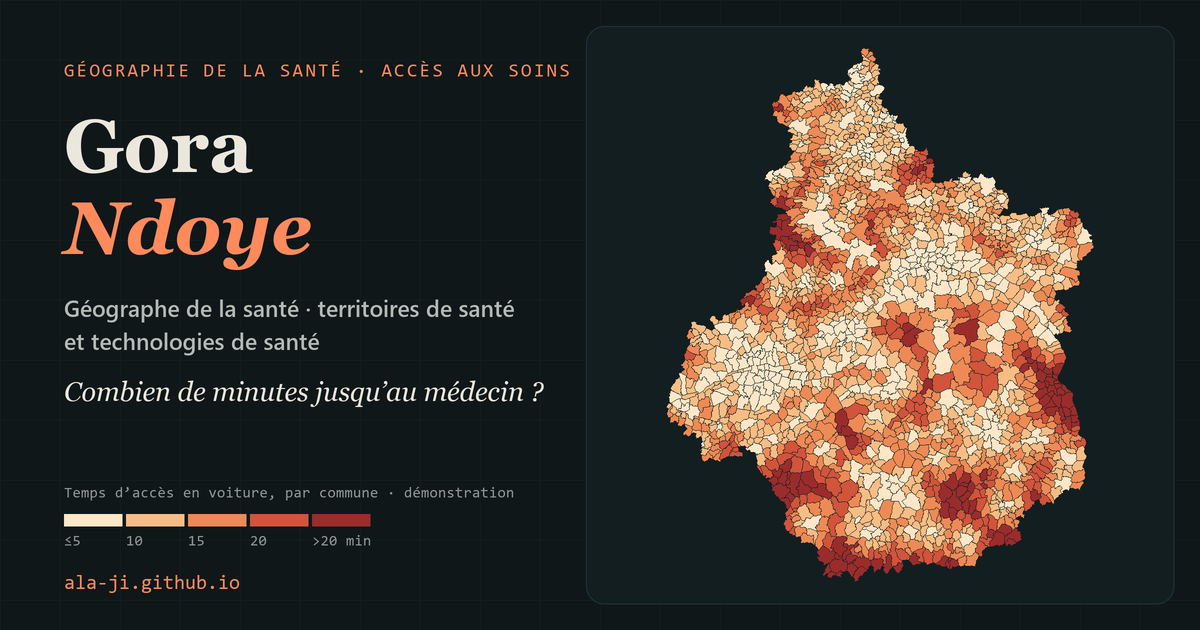
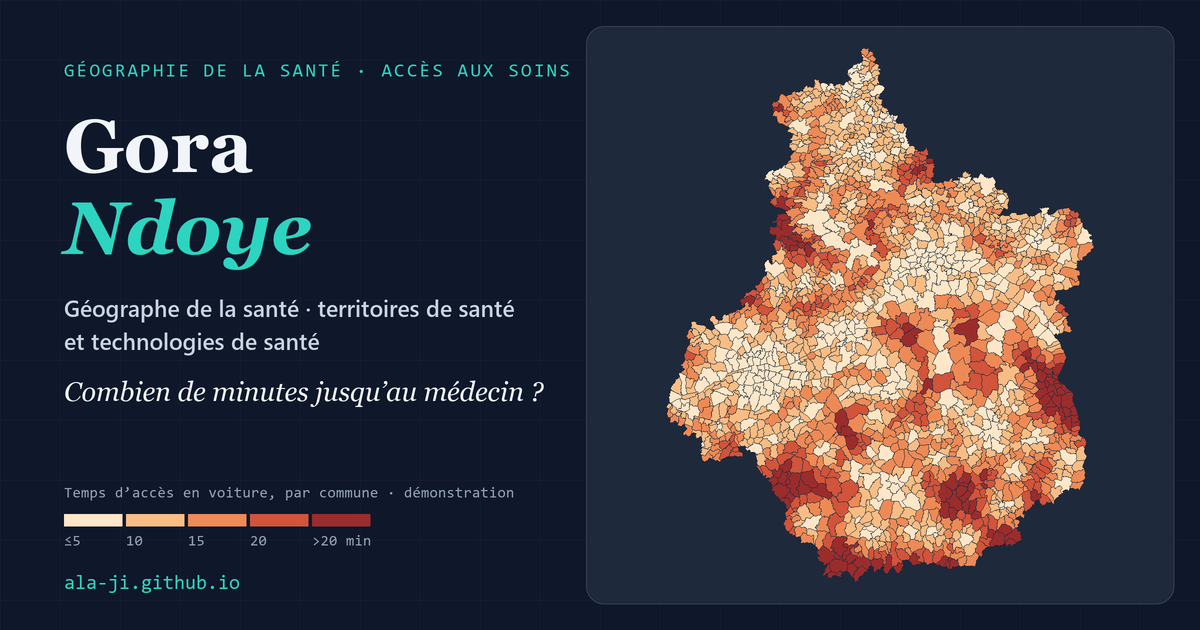
Nouvelle palette : ardoise et teal en clair, bleu nuit et menthe en sombre
- Clair : fond #f8fafc, cartes blanches cernées de #e2e8f0, texte #1e293b,
  titres #0f172a. Sombre : fond #0f172a, cartes #1e293b cernées de #334155,
  texte #f1f5f9.
- Accent teal #0d9488 (menthe #2dd4bf en sombre) pour les boutons, les
  liens, les étiquettes et les chiffres clés ; liens, étiquettes et fonds de
  bouton en #0f766e sur fond clair pour tenir un contraste de 4,5:1.
- Sélection, curseur, barres de défilement et contours de focus aux couleurs
  de la palette ; visionneuse, favicon, couleur de navigateur et aperçu
  LinkedIn mis à jour. Échelle de la carte des temps inchangée.

diff --git a/css/style.css b/css/style.css
@@ -1,8 +1,10 @@
 /* ==========================================================================
    Portfolio · feuille de style
-   Direction : l'atlas et le carnet de terrain. Papier crème, encre bleu-noir,
-   un seul accent (le crayon rouge du cartographe), réservé à l'action
-   principale, à la carte et au chiffre qui compte.
+   Direction : clair, lisible et professionnel. Fond ardoise très pâle, cartes
+   blanches cernées d'un filet, texte ardoise ; en sombre, bleu nuit façon
+   tableau de bord. Un accent teal (menthe en sombre) pour les boutons, les
+   liens, les étiquettes et les chiffres qui comptent. En clair, le texte et
+   les fonds de bouton prennent le teal foncé (#0f766e) pour tenir 4,5:1.
 
    1. Jetons (couleurs, typographie, espacements) · thèmes clair et sombre
    2. Base
@@ -21,28 +23,32 @@
 /* 1. Jetons ---------------------------------------------------------------- */
 :root {
   color-scheme: light;
-  --bg: #f6f3ec;
-  --bg-alt: #efe9df;
-  --surface: #fffdf8;
-  --ink: #1b2a2f;
-  --ink-soft: #46565b;
-  --ink-faint: #5f6d6d;
-  --line: rgba(27, 42, 47, 0.09);
-  --line-strong: rgba(27, 42, 47, 0.16);
-  --accent: #b5401f;
-  --accent-hover: #963217;
-  --on-accent: #fffaf5;
+  --bg: #f8fafc;
+  --bg-alt: #f1f5f9;
+  --surface: #ffffff;
+  --ink: #1e293b;
+  --ink-strong: #0f172a;
+  --ink-soft: #475569;
+  --ink-faint: #5b6b80;
+  --line: #e2e8f0;
+  --line-strong: #cbd5e1;
+  --accent: #0d9488;
+  --accent-strong: #0f766e;
+  --accent-hover: #115e59;
+  --accent-soft: #f0fdfa;
+  --accent-line: rgba(13, 148, 136, 0.28);
+  --on-accent: #ffffff;
   --positive: #2f7d4f;
-  --shadow: 0 1px 2px rgba(0, 0, 0, 0.05), 0 8px 24px rgba(0, 0, 0, 0.06);
-  --header-bg: rgba(246, 243, 236, 0.86);
-  --veil-rgb: 246, 243, 236;
+  --shadow: 0 1px 2px rgba(15, 23, 42, 0.05), 0 8px 24px rgba(15, 23, 42, 0.06);
+  --header-bg: rgba(248, 250, 252, 0.86);
+  --veil-rgb: 248, 250, 252;
   --map-stroke: rgba(255, 255, 255, 0.8);
-  --map-null: #b4b8b0;
-  --contact-bg: #1b2a2f;
-  --contact-ink: #f6f3ec;
-  --contact-muted: rgba(246, 243, 236, 0.72);
-  --contact-line: rgba(246, 243, 236, 0.14);
-  --contact-line-strong: rgba(246, 243, 236, 0.28);
+  --map-null: #a8b3c2;
+  --contact-bg: #0f172a;
+  --contact-ink: #f1f5f9;
+  --contact-muted: rgba(241, 245, 249, 0.72);
+  --contact-line: rgba(241, 245, 249, 0.14);
+  --contact-line-strong: rgba(241, 245, 249, 0.28);
 
   --font-display: "Fraunces", Georgia, "Times New Roman", serif;
   --font-body: "Inter", system-ui, -apple-system, "Segoe UI", Roboto, sans-serif;
@@ -57,55 +63,64 @@
 
 :root[data-theme="dark"] {
   color-scheme: dark;
-  --bg: #0f1719;
-  --bg-alt: #162124;
-  --surface: #182428;
-  --ink: #ece7dc;
-  --ink-soft: #b4bbb6;
-  --ink-faint: #8d9894;
-  --line: rgba(236, 231, 220, 0.08);
-  --line-strong: rgba(236, 231, 220, 0.16);
-  --accent: #ff8a5c;
-  --accent-hover: #ffa47f;
-  --on-accent: #1d0f0a;
+  --bg: #0f172a;
+  --bg-alt: #131d33;
+  --surface: #1e293b;
+  --ink: #f1f5f9;
+  --ink-strong: #f8fafc;
+  --ink-soft: #cbd5e1;
+  --ink-faint: #94a3b8;
+  --line: #334155;
+  --line-strong: #475569;
+  --accent: #2dd4bf;
+  --accent-strong: #2dd4bf;
+  --accent-hover: #5eead4;
+  --accent-soft: rgba(45, 212, 191, 0.12);
+  --accent-line: rgba(45, 212, 191, 0.32);
+  --on-accent: #0f172a;
   --positive: #4cc38a;
   --shadow: 0 1px 2px rgba(0, 0, 0, 0.3), 0 8px 24px rgba(0, 0, 0, 0.35);
-  --header-bg: rgba(15, 23, 25, 0.86);
-  --veil-rgb: 15, 23, 25;
-  --map-stroke: rgba(15, 23, 25, 0.6);
-  --map-null: #3e484a;
-  --contact-bg: #1a272b;
-  --contact-ink: #ece7dc;
-  --contact-muted: #b4bbb6;
-  --contact-line: rgba(236, 231, 220, 0.12);
-  --contact-line-strong: rgba(236, 231, 220, 0.24);
+  --header-bg: rgba(15, 23, 42, 0.86);
+  --veil-rgb: 15, 23, 42;
+  --map-stroke: rgba(15, 23, 42, 0.6);
+  --map-null: #475569;
+  --contact-bg: #1e293b;
+  --contact-ink: #f1f5f9;
+  --contact-muted: #cbd5e1;
+  --contact-line: rgba(241, 245, 249, 0.12);
+  --contact-line-strong: rgba(241, 245, 249, 0.24);
 }
 
 /* Sans JavaScript : on suit le réglage du système */
 @media (prefers-color-scheme: dark) {
   :root:not([data-theme]) {
     color-scheme: dark;
-    --bg: #0f1719;
-    --bg-alt: #162124;
-    --surface: #182428;
-    --ink: #ece7dc;
-    --ink-soft: #b4bbb6;
-    --ink-faint: #8d9894;
-    --line: rgba(236, 231, 220, 0.08);
-    --line-strong: rgba(236, 231, 220, 0.16);
-    --accent: #ff8a5c;
-    --accent-hover: #ffa47f;
-    --on-accent: #1d0f0a;
+    --bg: #0f172a;
+    --bg-alt: #131d33;
+    --surface: #1e293b;
+    --ink: #f1f5f9;
+    --ink-strong: #f8fafc;
+    --ink-soft: #cbd5e1;
+    --ink-faint: #94a3b8;
+    --line: #334155;
+    --line-strong: #475569;
+    --accent: #2dd4bf;
+    --accent-strong: #2dd4bf;
+    --accent-hover: #5eead4;
+    --accent-soft: rgba(45, 212, 191, 0.12);
+    --accent-line: rgba(45, 212, 191, 0.32);
+    --on-accent: #0f172a;
     --positive: #4cc38a;
-    --header-bg: rgba(15, 23, 25, 0.86);
-    --veil-rgb: 15, 23, 25;
-    --map-stroke: rgba(15, 23, 25, 0.6);
-    --map-null: #3e484a;
-    --contact-bg: #1a272b;
-    --contact-ink: #ece7dc;
-    --contact-muted: #b4bbb6;
-    --contact-line: rgba(236, 231, 220, 0.12);
-    --contact-line-strong: rgba(236, 231, 220, 0.24);
+    --shadow: 0 1px 2px rgba(0, 0, 0, 0.3), 0 8px 24px rgba(0, 0, 0, 0.35);
+    --header-bg: rgba(15, 23, 42, 0.86);
+    --veil-rgb: 15, 23, 42;
+    --map-stroke: rgba(15, 23, 42, 0.6);
+    --map-null: #475569;
+    --contact-bg: #1e293b;
+    --contact-ink: #f1f5f9;
+    --contact-muted: #cbd5e1;
+    --contact-line: rgba(241, 245, 249, 0.12);
+    --contact-line-strong: rgba(241, 245, 249, 0.24);
   }
 }
 
@@ -136,12 +151,15 @@ body:has(dialog[open]) { overflow: hidden; }
 img, svg, canvas { display: block; max-width: 100%; }
 img { height: auto; }
 a { color: inherit; text-decoration-thickness: 1px; text-underline-offset: 3px; }
-h1, h2, h3, h4 { margin: 0; color: var(--ink); font-weight: 500; }
+main p a:not([class]) { color: var(--accent-strong); text-decoration-color: var(--accent-line); }
+main p a:not([class]):hover { color: var(--accent-hover); text-decoration-color: currentColor; }
+h1, h2, h3, h4 { margin: 0; color: var(--ink-strong); font-weight: 500; }
 p { margin: 0 0 16px; }
 ul, ol { margin: 0; padding: 0; }
 button, input { font: inherit; color: inherit; }
 strong { font-weight: 600; }
-::selection { background: var(--accent); color: var(--on-accent); }
+::selection { background: var(--accent-strong); color: var(--on-accent); }
+:root { accent-color: var(--accent-strong); caret-color: var(--accent-strong); scrollbar-color: var(--line-strong) var(--bg); }
 :focus-visible { outline: 2px solid var(--accent); outline-offset: 2px; border-radius: 4px; }
 
 .visually-hidden {
@@ -206,7 +224,7 @@ strong { font-weight: 600; }
 }
 .btn:active { transform: scale(0.98); }
 .btn .icon { width: 16px; height: 16px; }
-.btn-primary { background: var(--accent); color: var(--on-accent); }
+.btn-primary { background: var(--accent-strong); color: var(--on-accent); }
 .btn-primary:hover { background: var(--accent-hover); }
 .btn-ghost { border-color: var(--line-strong); background: var(--surface); color: var(--ink); }
 .btn-ghost:hover { background: var(--bg-alt); }
@@ -254,9 +272,10 @@ a.is-missing:hover { background: var(--surface); }
 .chips { list-style: none; display: flex; flex-wrap: wrap; gap: 8px; }
 .chips li {
   padding: 4px 8px;
-  border: 1px solid var(--line-strong);
+  border: 1px solid var(--accent-line);
   border-radius: var(--radius-tag);
-  color: var(--ink-soft);
+  background: var(--accent-soft);
+  color: var(--accent-strong);
   font-size: 0.8125rem;
   line-height: 1.4;
 }
@@ -265,9 +284,10 @@ a.is-missing:hover { background: var(--surface); }
 .tag {
   display: inline-block;
   padding: 2px 8px;
-  border: 1px solid var(--line-strong);
+  border: 1px solid var(--accent-line);
   border-radius: var(--radius-tag);
-  color: var(--ink-soft);
+  background: var(--accent-soft);
+  color: var(--accent-strong);
   font-size: 0.75rem;
   line-height: 1.6;
 }
@@ -745,7 +765,8 @@ a.is-missing:hover { background: var(--surface); }
 .cert-list { list-style: none; display: grid; gap: 12px; }
 .cert-list li { display: grid; grid-template-columns: 48px minmax(0, 1fr); gap: 12px; align-items: baseline; color: var(--ink-soft); font-size: 0.9375rem; }
 .cert-list .tl-date { margin: 0; }
-.cert-link { display: inline-flex; align-items: center; gap: 4px; margin-left: 4px; color: var(--ink); font-size: 0.8125rem; white-space: nowrap; }
+.cert-link { display: inline-flex; align-items: center; gap: 4px; margin-left: 4px; color: var(--accent-strong); font-size: 0.8125rem; white-space: nowrap; }
+.cert-link:hover { color: var(--accent-hover); }
 .cert-link .icon { width: 14px; height: 14px; }
 
 /* Galerie : la carte reste entière, la légende est sous l'image */
@@ -802,7 +823,7 @@ a.is-missing:hover { background: var(--surface); }
   transition: background-color 0.15s var(--ease), color 0.15s var(--ease), border-color 0.15s var(--ease);
 }
 .filter-btn:hover { color: var(--ink); background: var(--surface); }
-.filter-btn[aria-pressed="true"] { border-color: var(--ink); background: var(--ink); color: var(--bg); }
+.filter-btn[aria-pressed="true"] { border-color: var(--accent-strong); background: var(--accent-strong); color: var(--on-accent); }
 .docs-grid { list-style: none; display: grid; grid-template-columns: repeat(auto-fill, minmax(300px, 1fr)); gap: 16px; }
 .doc-card {
   display: flex;
@@ -898,11 +919,11 @@ a.is-missing:hover { background: var(--surface); }
   margin: 0;
   padding: 0;
   border: 0;
-  background: rgba(8, 12, 13, 0.95);
-  color: #f2efe8;
+  background: rgba(2, 6, 23, 0.95);
+  color: #f1f5f9;
 }
 .lightbox[open] { display: grid; grid-template-columns: auto minmax(0, 1fr) auto; align-items: center; }
-.lightbox::backdrop { background: rgba(8, 12, 13, 0.6); }
+.lightbox::backdrop { background: rgba(2, 6, 23, 0.6); }
 .lb-figure {
   display: flex;
   flex-direction: column;
@@ -919,23 +940,23 @@ a.is-missing:hover { background: var(--surface); }
   border-radius: var(--radius-control);
   background: #fff;
 }
-.lb-figure figcaption { max-width: 880px; color: rgba(242, 239, 232, 0.82); font-size: 0.9375rem; text-align: center; }
-.lb-count { display: block; margin-bottom: 4px; color: rgba(242, 239, 232, 0.56); font-size: 0.8125rem; font-variant-numeric: tabular-nums; }
+.lb-figure figcaption { max-width: 880px; color: rgba(241, 245, 249, 0.82); font-size: 0.9375rem; text-align: center; }
+.lb-count { display: block; margin-bottom: 4px; color: rgba(241, 245, 249, 0.56); font-size: 0.8125rem; font-variant-numeric: tabular-nums; }
 .lb-btn {
   display: grid;
   place-items: center;
   width: 44px; height: 44px;
   margin: 0 12px;
   padding: 0;
-  border: 1px solid rgba(242, 239, 232, 0.24);
+  border: 1px solid rgba(241, 245, 249, 0.24);
   border-radius: 10px;
-  background: rgba(242, 239, 232, 0.06);
+  background: rgba(241, 245, 249, 0.06);
   color: inherit;
   cursor: pointer;
   transition: background-color 0.15s var(--ease);
 }
-.lb-btn:hover { background: rgba(242, 239, 232, 0.14); }
-.lb-btn:focus-visible { outline-color: #f2efe8; }
+.lb-btn:hover { background: rgba(241, 245, 249, 0.14); }
+.lb-btn:focus-visible { outline-color: #f1f5f9; }
 .lb-close { position: absolute; top: 16px; right: 16px; margin: 0; }
 
 /* 9. Pied de page ---------------------------------------------------------- */

diff --git a/index.html b/index.html
@@ -24,8 +24,8 @@
   <meta property="og:image:alt" content="Carte des temps d’accès aux cabinets médicaux en Centre-Val de Loire, avec le nom et le métier de Gora Ndoye.">
   <meta name="twitter:card" content="summary_large_image">
 
-  <meta name="theme-color" content="#f6f3ec" media="(prefers-color-scheme: light)">
-  <meta name="theme-color" content="#0f1719" media="(prefers-color-scheme: dark)">
+  <meta name="theme-color" content="#f8fafc" media="(prefers-color-scheme: light)">
+  <meta name="theme-color" content="#0f172a" media="(prefers-color-scheme: dark)">
   <link rel="icon" href="assets/img/favicon.svg" type="image/svg+xml">
 
   <script>

diff --git a/js/carte.js b/js/carte.js
@@ -92,9 +92,9 @@
   function lireCouleurs() {
     const cs = getComputedStyle(document.documentElement);
     state.colors = {
-      nul: cs.getPropertyValue('--map-null').trim() || '#b4b8b0',
+      nul: cs.getPropertyValue('--map-null').trim() || '#a8b3c2',
       trait: cs.getPropertyValue('--map-stroke').trim() || '#ffffff',
-      encre: cs.getPropertyValue('--ink').trim() || '#1b2a2f',
+      encre: cs.getPropertyValue('--ink').trim() || '#1e293b',
     };
   }
 

diff --git a/js/main.js b/js/main.js
@@ -104,7 +104,7 @@
     let W = 0, H = 0, cell = 10, cols = 0, rows = 0, tMax = 0;
     let field = null, cmin = null, cmax = null, sources = [];
     let running = false, raf = 0, last = 0, onScreen = true;
-    const colors = { ink: '#1b2a2f', accent: '#b5401f', bg: '#f6f3ec' };
+    const colors = { ink: '#1e293b', accent: '#0d9488', bg: '#f8fafc' };
 
     function mulberry32(a) {
       return function () {

diff --git a/outils/generer_apercu.py b/outils/generer_apercu.py
@@ -18,13 +18,14 @@ from PIL import Image, ImageDraw, ImageFont
 RACINE = os.path.dirname(os.path.dirname(os.path.abspath(__file__)))
 L, H, S = 1200, 630, 2  # dessin à 2x puis réduction, pour des bords lissés
 
-FOND = (15, 23, 25)
-CARTE_FOND = (19, 30, 33)
-ENCRE = (236, 231, 220)
-ENCRE_DOUCE = (180, 187, 182)
-ENCRE_PALE = (141, 152, 148)
-ACCENT = (255, 138, 92)
-NUL = (62, 72, 74)
+FOND = (15, 23, 42)  # bleu nuit, comme le thème sombre du site
+CARTE_FOND = (30, 41, 59)
+ENCRE = (241, 245, 249)
+ENCRE_DOUCE = (203, 213, 225)
+ENCRE_PALE = (148, 163, 184)
+ACCENT = (45, 212, 191)  # menthe
+NUL = (71, 85, 105)
+FILET = (51, 65, 85)
 RAMPE = [(253, 231, 200), (248, 189, 132), (238, 138, 85), (209, 84, 59), (155, 44, 44)]
 
 POLICES = {
@@ -113,7 +114,7 @@ def main():
 
     # Carte : cadre puis communes, projetées (longitude corrigée de la latitude moyenne)
     bx0, by0, bx1, by1 = 586, 26, 1174, 604
-    d.rounded_rectangle([bx0 * S, by0 * S, bx1 * S, by1 * S], radius=18 * S, fill=CARTE_FOND, outline=(36, 50, 52), width=S)
+    d.rounded_rectangle([bx0 * S, by0 * S, bx1 * S, by1 * S], radius=18 * S, fill=CARTE_FOND, outline=FILET, width=S)
     anneaux = []
     lats = []
     for ft in data["features"]:
